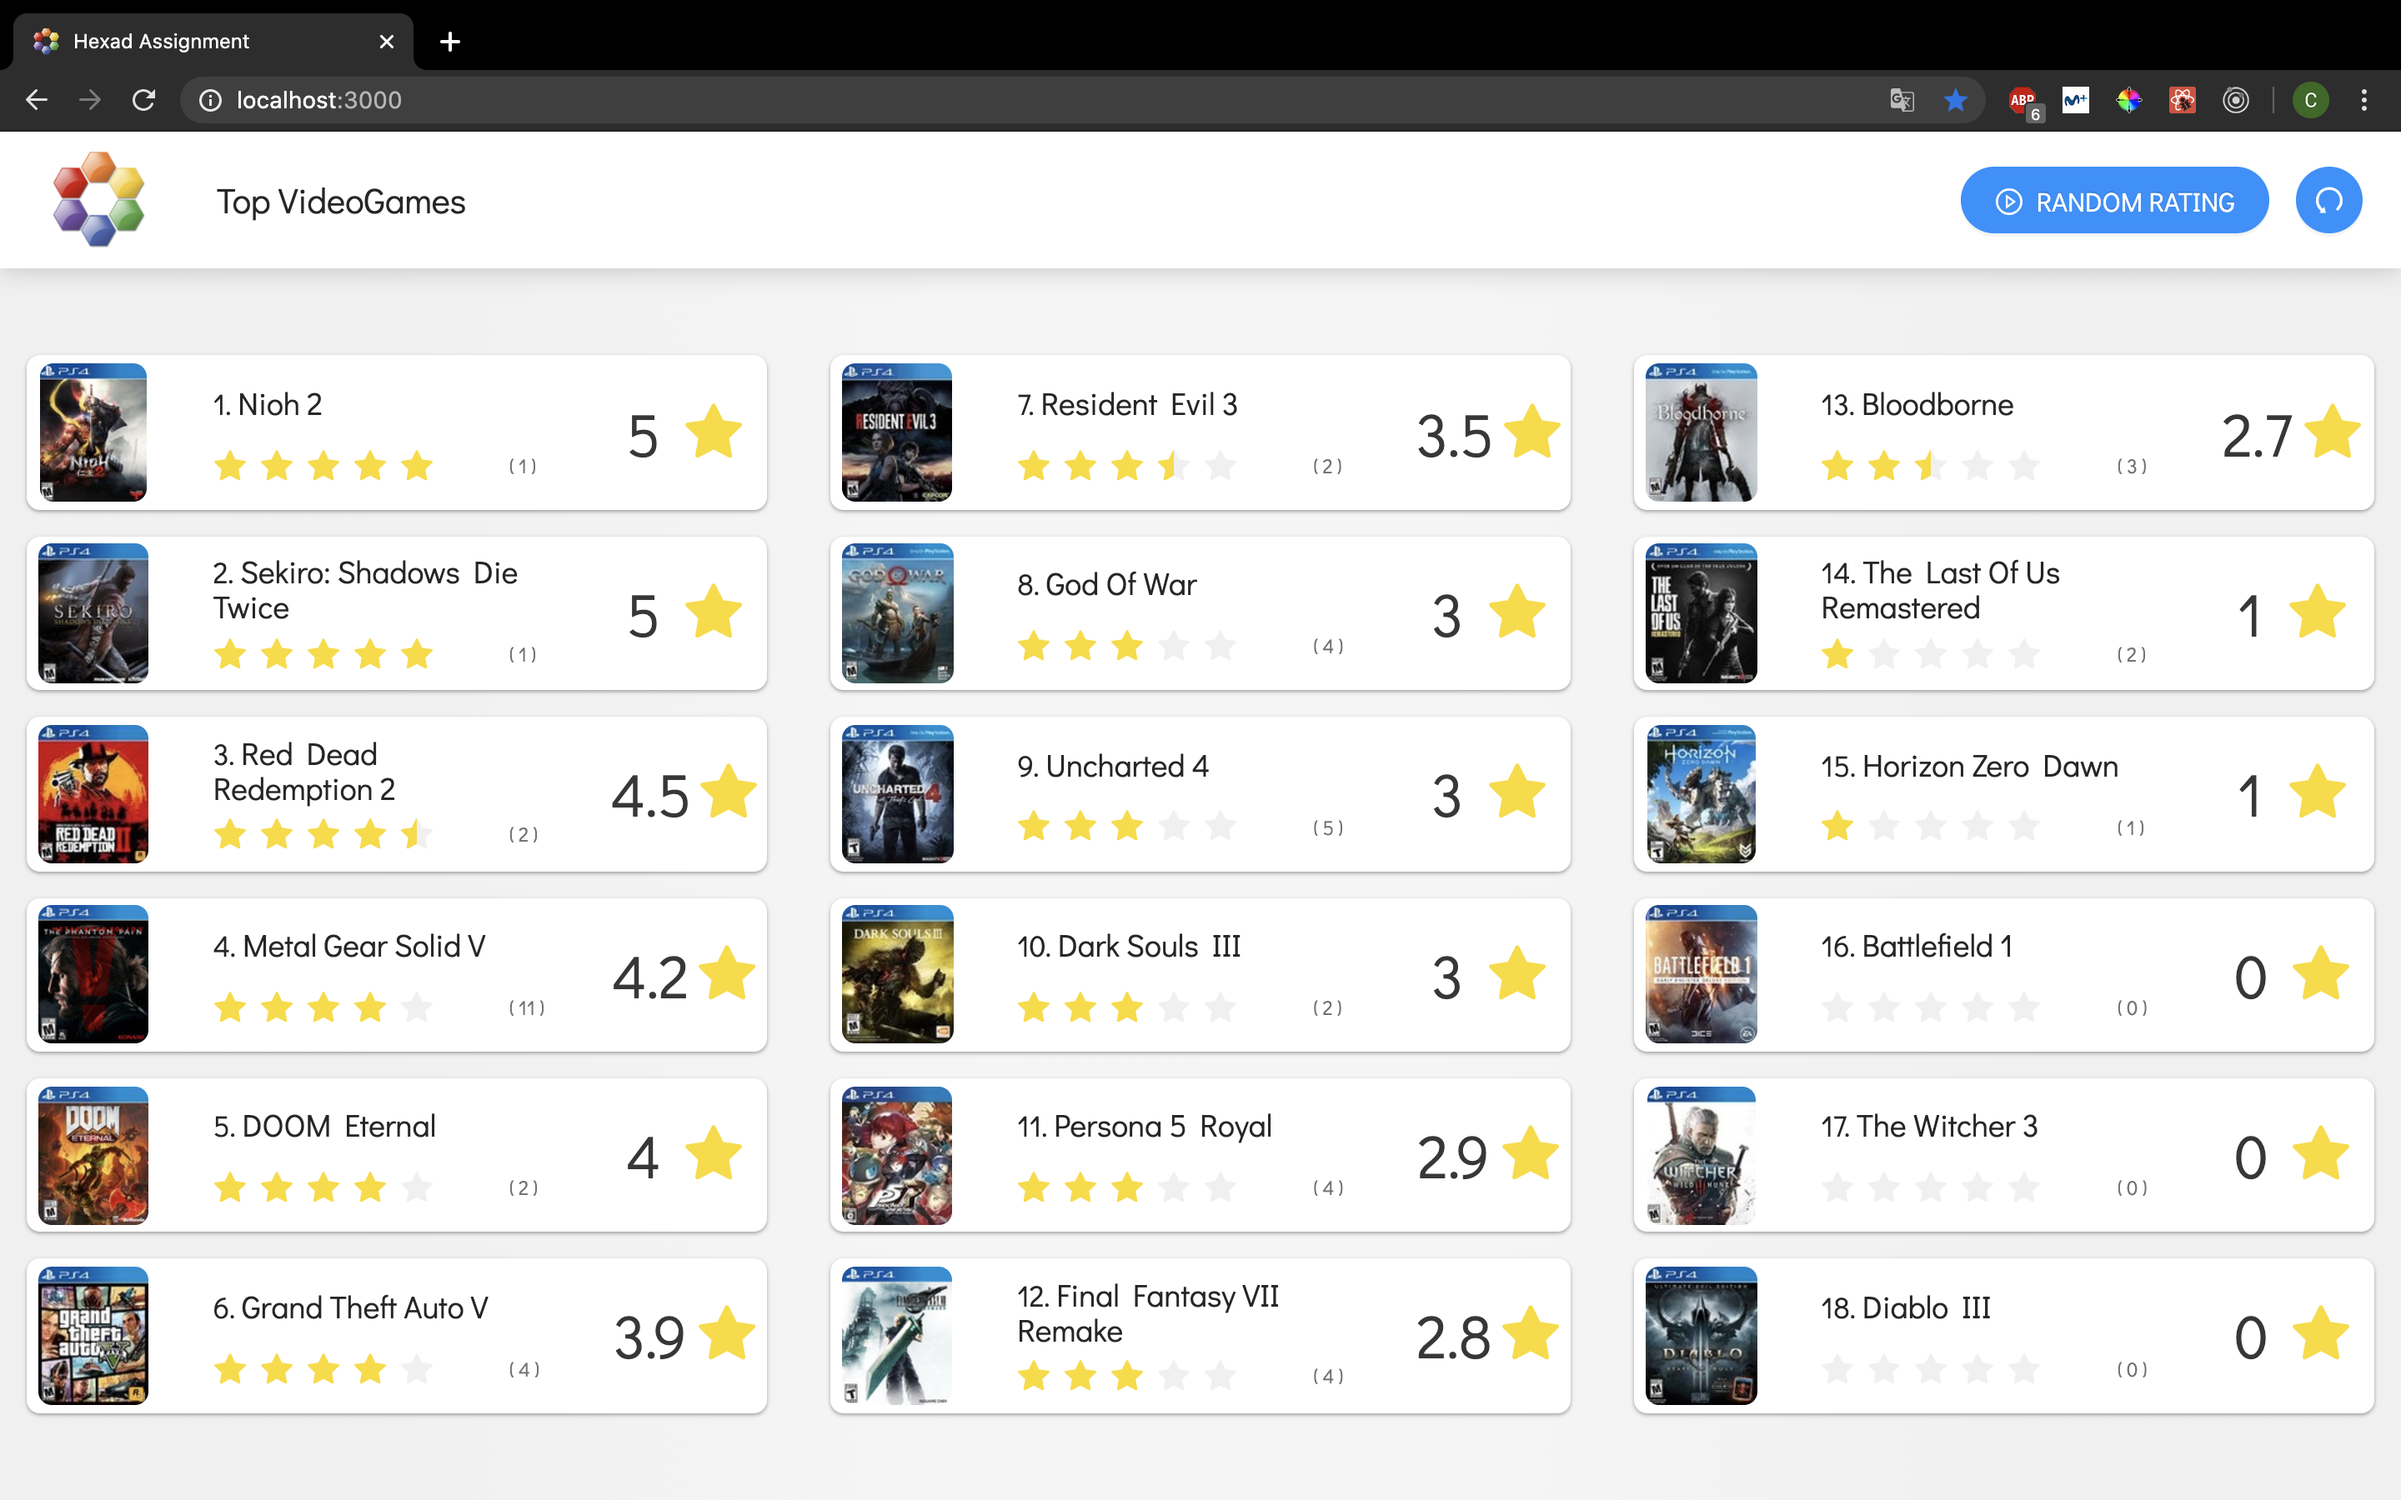
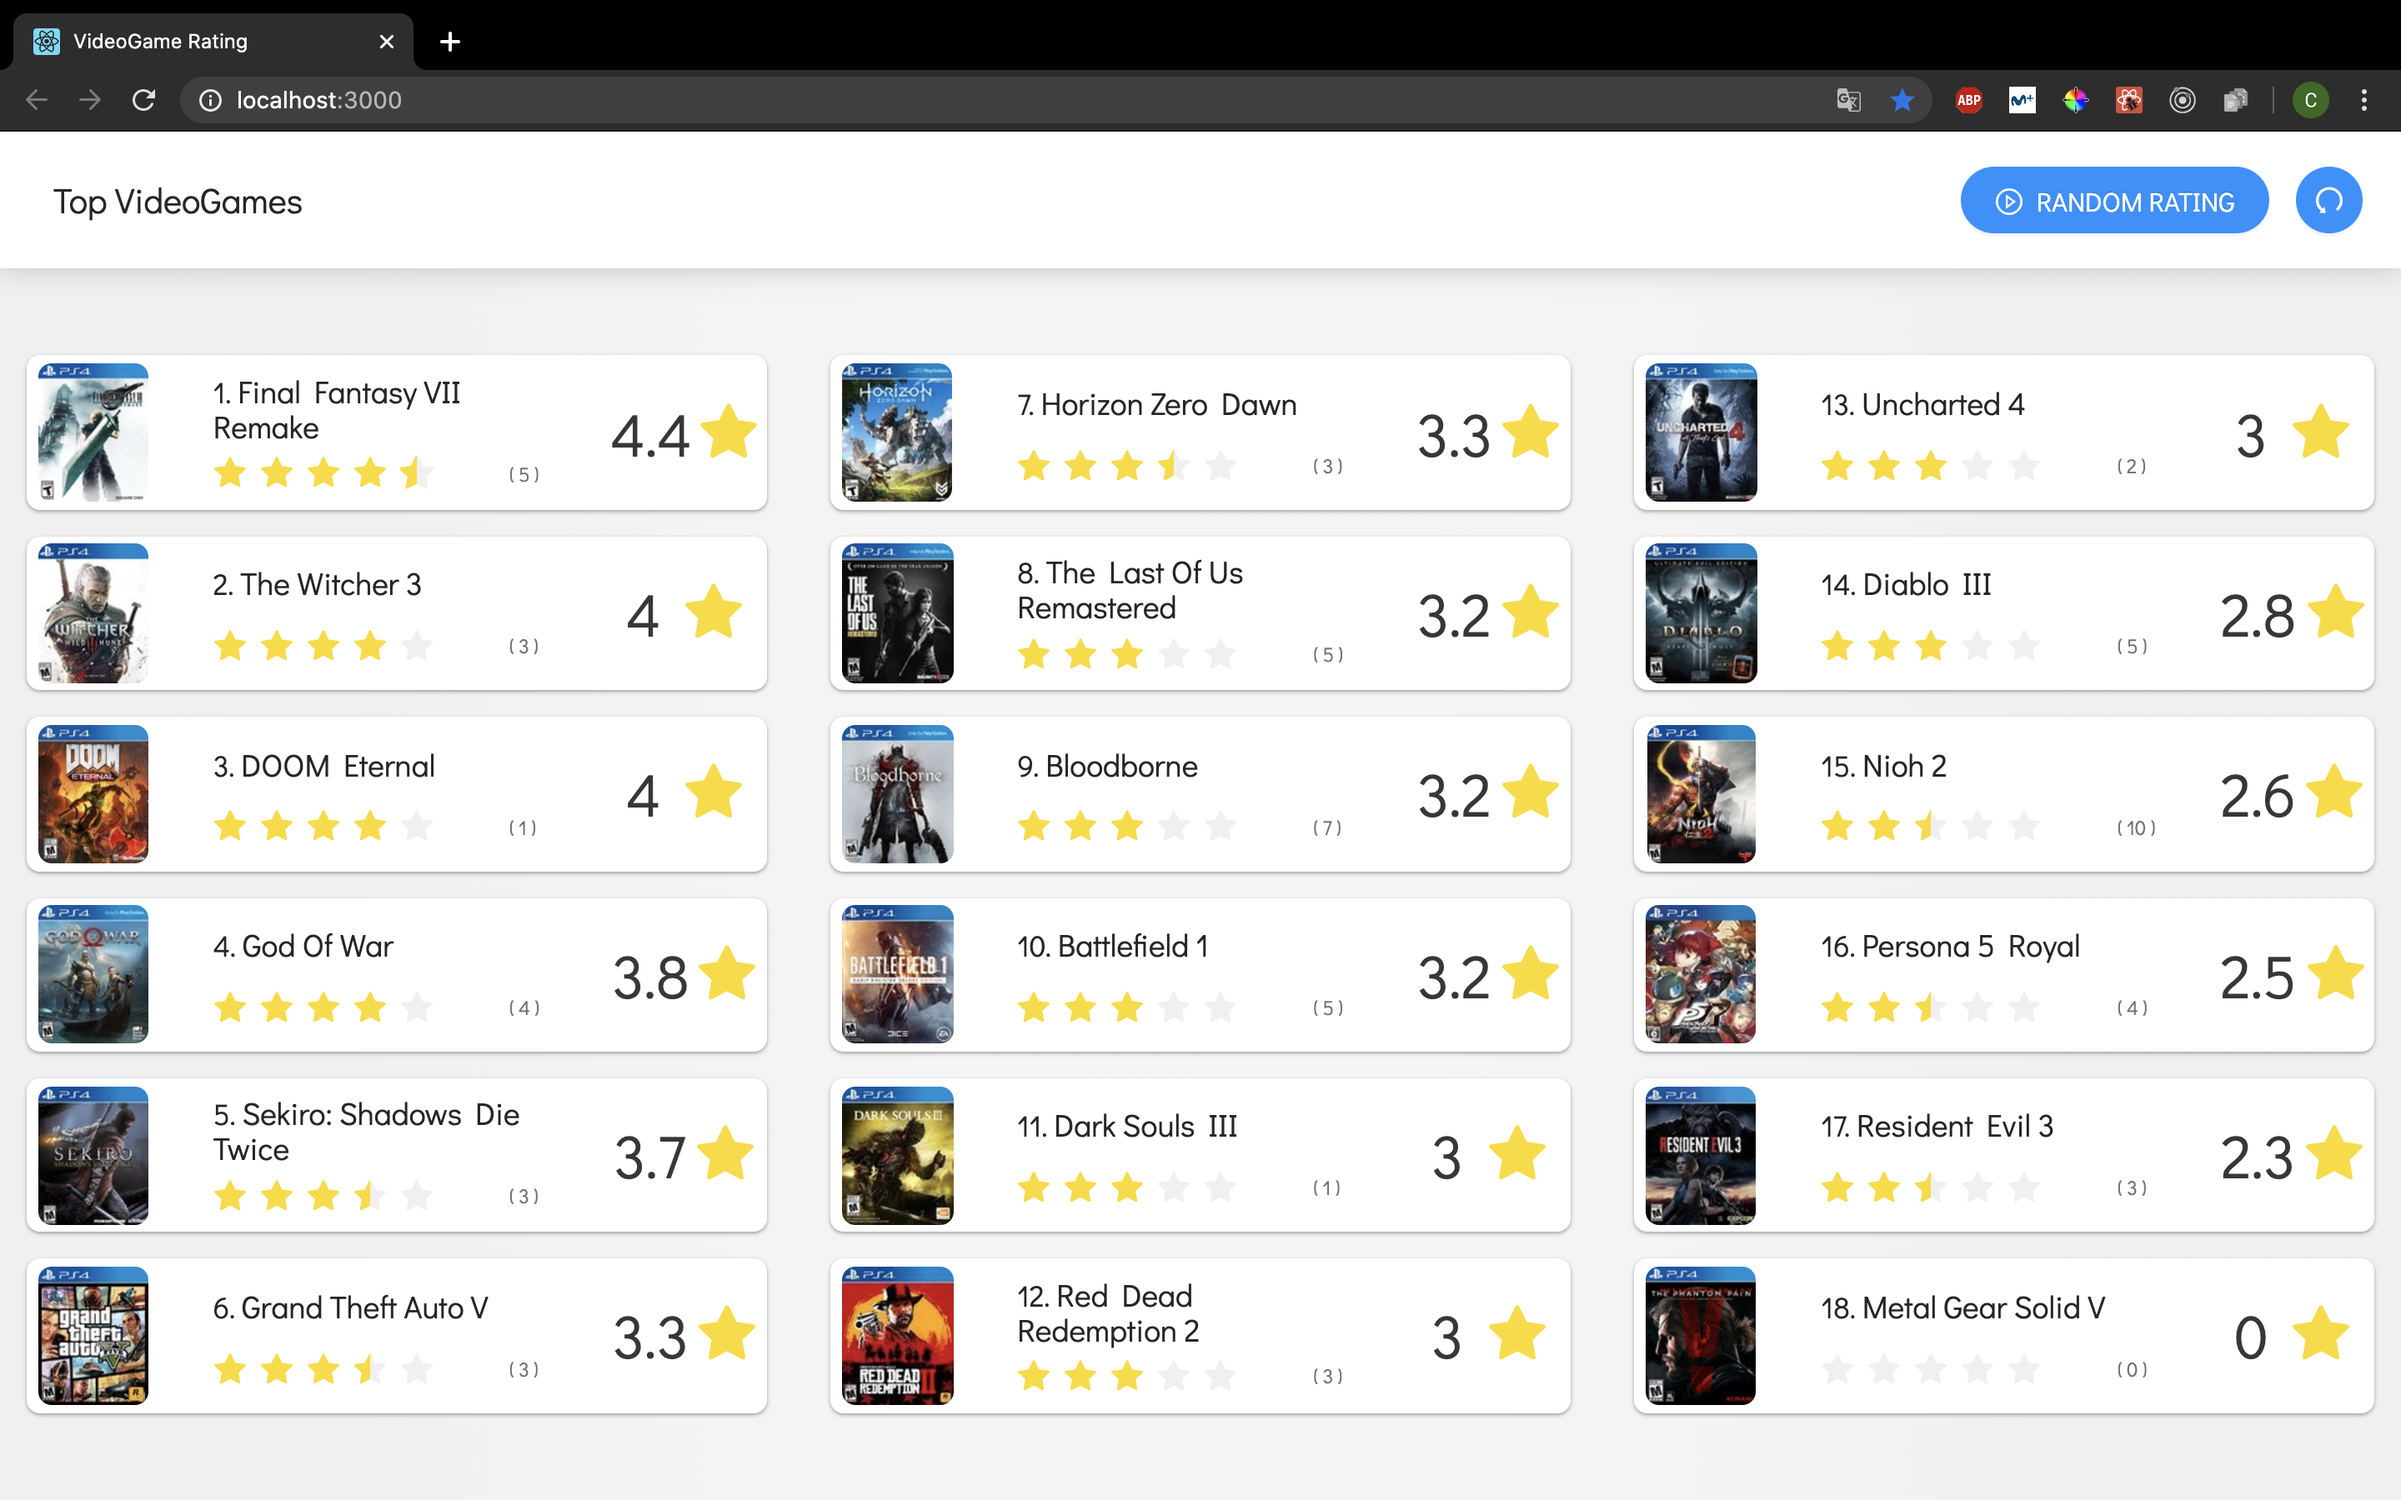
readme updated

diff --git a/public/index.html b/public/index.html
@@ -3,9 +3,8 @@
 
   <head>
     <meta charset="utf-8" />
-    <link rel="icon" href="%PUBLIC_URL%/hexad-favicon.png" />
     <meta name="viewport" content="width=device-width, initial-scale=1" />
-    <title>Hexad Assignment</title>
+    <title>VideoGame Rating</title>
     <link href="https://fonts.googleapis.com/css?family=Didact+Gothic&display=swap" rel="stylesheet">
   </head>
 

diff --git a/src/components/Header.js b/src/components/Header.js
@@ -14,7 +14,6 @@ const Header = ({ handleRandom, handleReset, random, error }) => {
         <header className="header">
 
             <div className="header__logo">
-                <img src="https://hexad.de/wp-content/themes/hexad/img/hexad-small-logo.png" alt="logo" />
                 <h2>Top VideoGames</h2>
             </div>
 
